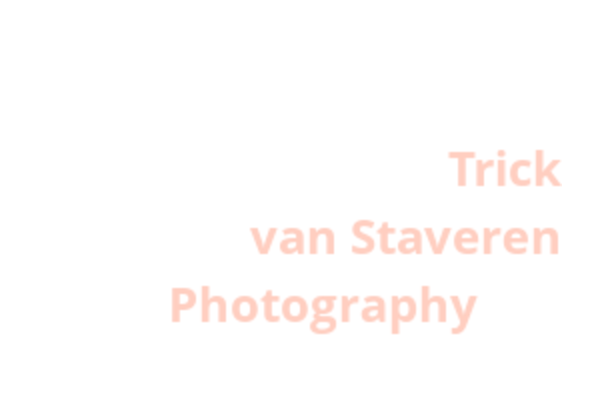
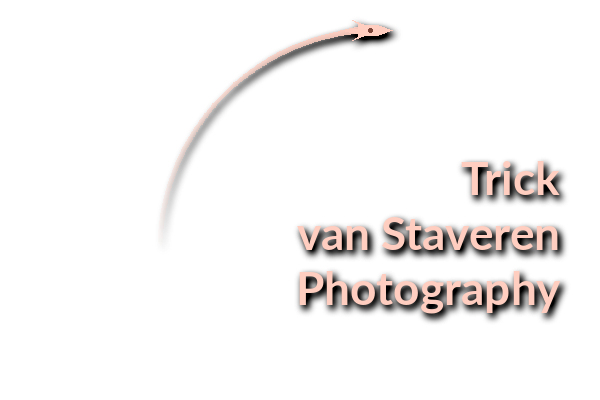
Add brand SVG source and build script, extend gitignore for HEIC
Add build_brand.py to generate the brand watermark and brand1.svg as
the vector source; refresh brand1.png output. Extend .gitignore to also
exclude HEIC source photos and watermarked outputs.

Changed region(s): [[0.27, 0.54, 0.96, 0.84], [0.27, 0.03, 0.66, 0.57], [0.75, 0.36, 0.96, 0.51]]

diff --git a/build_brand.py b/build_brand.py
@@ -1,0 +1,183 @@
+#!/usr/bin/env python3
+"""
+Build brand1.png — the Trick van Staveren Photography watermark.
+
+Layout (600 x 400):
+  * Three lines of right-aligned peach text in the bottom-right.
+  * A 90 degree arc centered on the text that wraps the upper-left,
+    with a peach-fading exhaust trail.
+  * A small narrow rocket at the head of the arc, pointing along the
+    tangent (rightward at the top of the orbit) as if blasting off.
+  * Everything sits over a soft dark drop shadow so the mark stays
+    legible on light backgrounds (sky, sand, seafoam, snow).
+
+PIL is used because ImageMagick 6 and cairosvg on this box don't
+implement SVG filters, so the shadow has to be composed by hand.
+"""
+
+from __future__ import annotations
+
+import math
+
+from PIL import Image, ImageDraw, ImageFilter, ImageFont
+
+# ---------------------------------------------------------------------------
+# Canvas + palette
+
+W, H = 600, 400
+PEACH = (255, 206, 192, 255)   # matches the original brand1.png text color
+SHADOW_RGB = (0, 0, 0)
+
+OUT_PATH = "/sessions/tender-eager-clarke/mnt/photography/brand1.png"
+FONT_PATH = "/usr/share/fonts/truetype/lato/Lato-Bold.ttf"
+FONT_SIZE = 46
+
+# Arc geometry — 90 degree quarter circle centered on the text block.
+ARC_CX, ARC_CY = 380, 250
+ARC_R = 220
+ARC_THETA_START = math.radians(180)   # left of center
+ARC_THETA_END = math.radians(270)     # above center (12 o'clock)
+ARC_WIDTH = 5                          # px
+
+# Rocket sits at the leading end (angle 270, i.e. top of the orbit) and
+# points along the tangent of CCW motion at that point, which is +X.
+ROCKET_X = ARC_CX + ARC_R * math.cos(ARC_THETA_END)
+ROCKET_Y = ARC_CY + ARC_R * math.sin(ARC_THETA_END)
+ROCKET_ANGLE = ARC_THETA_END + math.pi / 2  # tangent direction for CCW orbit
+
+
+# ---------------------------------------------------------------------------
+# Drawing helpers
+
+def draw_trail(layer: Image.Image) -> None:
+    """Draw the 90-degree arc as a peach exhaust trail that fades from
+    transparent at the launch end to fully opaque at the rocket end."""
+    draw = ImageDraw.Draw(layer)
+    steps = 240
+    for i in range(steps):
+        t0 = i / steps
+        t1 = (i + 1) / steps
+        theta0 = ARC_THETA_START + (ARC_THETA_END - ARC_THETA_START) * t0
+        theta1 = ARC_THETA_START + (ARC_THETA_END - ARC_THETA_START) * t1
+        x0 = ARC_CX + ARC_R * math.cos(theta0)
+        y0 = ARC_CY + ARC_R * math.sin(theta0)
+        x1 = ARC_CX + ARC_R * math.cos(theta1)
+        y1 = ARC_CY + ARC_R * math.sin(theta1)
+        # Opacity ramp: 0 at launch end, ~1 at rocket end. Bias with a
+        # gentle curve so the head is solid and the tail tapers nicely.
+        alpha = int(255 * (t0 ** 0.85))
+        color = (PEACH[0], PEACH[1], PEACH[2], alpha)
+        draw.line([(x0, y0), (x1, y1)], fill=color, width=ARC_WIDTH)
+
+
+def draw_rocket(layer: Image.Image) -> None:
+    """Draw a small narrow rocket pointing along +X, then rotate the
+    sprite to the arc's tangent direction and paste it at the rocket
+    position."""
+    # Render in a generous local sprite then rotate.
+    sprite_size = 120
+    sprite = Image.new("RGBA", (sprite_size, sprite_size), (0, 0, 0, 0))
+    sd = ImageDraw.Draw(sprite)
+    cx, cy = sprite_size // 2, sprite_size // 2
+
+    def P(dx, dy):
+        return (cx + dx, cy + dy)
+
+    # Exhaust flame (slightly translucent peach).
+    flame = (PEACH[0], PEACH[1], PEACH[2], 230)
+    sd.polygon([P(-22, -4), P(-40, 0), P(-22, 4)], fill=flame)
+    # Body
+    sd.rectangle([P(-22, -5), P(-2, 5)], fill=PEACH)
+    # Nose cone
+    sd.polygon([P(-2, -5), P(12, 0), P(-2, 5)], fill=PEACH)
+    # Fins
+    sd.polygon([P(-20, -5), P(-28, -10), P(-14, -5)], fill=PEACH)
+    sd.polygon([P(-20, 5), P(-28, 10), P(-14, 5)], fill=PEACH)
+    # Porthole detail
+    sd.ellipse([P(-12, -2), P(-8, 2)], fill=(122, 68, 56, 255))
+
+    # PIL rotates counter-clockwise for positive angles. Our coord
+    # system has Y down, so a +Y direction means rotating the sprite
+    # so its +X axis ends up matching the tangent. The sprite's +X
+    # currently points right; we want it to point in direction
+    # (cos a, sin a) where a is ROCKET_ANGLE in image coords.
+    deg = -math.degrees(ROCKET_ANGLE)  # PIL rotate is CCW
+    rotated = sprite.rotate(deg, resample=Image.BICUBIC)
+
+    # Paste centered on the rocket position.
+    px = int(round(ROCKET_X - sprite_size / 2))
+    py = int(round(ROCKET_Y - sprite_size / 2))
+    layer.alpha_composite(rotated, (px, py))
+
+
+def draw_text(layer: Image.Image) -> None:
+    """Right-aligned three-line brand text."""
+    draw = ImageDraw.Draw(layer)
+    font = ImageFont.truetype(FONT_PATH, FONT_SIZE)
+    right_x = 560
+    lines = [("Trick", 195), ("van Staveren", 250), ("Photography", 305)]
+    for text, y in lines:
+        # Anchor "rs" = right-baseline-ish; PIL Pillow >= 8 supports it.
+        try:
+            draw.text((right_x, y), text, font=font, fill=PEACH, anchor="rs")
+        except (TypeError, ValueError):
+            # Fallback: measure and place manually.
+            bbox = draw.textbbox((0, 0), text, font=font)
+            w = bbox[2] - bbox[0]
+            draw.text((right_x - w, y - (bbox[3] - bbox[1])),
+                      text, font=font, fill=PEACH)
+
+
+# ---------------------------------------------------------------------------
+# Drop shadow
+
+def build_shadow(foreground: Image.Image,
+                 offset: tuple[int, int] = (3, 4),
+                 blur_radius: float = 3.5,
+                 strength: float = 1.6) -> Image.Image:
+    """Return a same-size RGBA image holding only the drop shadow.
+
+    `strength` > 1 pushes the blurred alpha up so the shadow stays
+    opaque under the lighter parts of the foreground — important for
+    legibility on bright backgrounds.
+    """
+    # Alpha-only mask of the foreground, scaled by the foreground's
+    # own alpha so semi-transparent bits cast lighter shadows.
+    alpha = foreground.split()[-1]
+    # Blur the alpha.
+    blurred = alpha.filter(ImageFilter.GaussianBlur(radius=blur_radius))
+    # Strengthen.
+    blurred = blurred.point(lambda v: min(255, int(v * strength)))
+
+    # Build a solid-color RGBA image using the blurred alpha.
+    shadow = Image.new("RGBA", foreground.size, SHADOW_RGB + (0,))
+    shadow.putalpha(blurred)
+
+    # Offset.
+    offset_img = Image.new("RGBA", foreground.size, (0, 0, 0, 0))
+    offset_img.alpha_composite(shadow, offset)
+    return offset_img
+
+
+# ---------------------------------------------------------------------------
+# Build
+
+def main() -> None:
+    # Foreground layer: arc + rocket + text, all peach.
+    fg = Image.new("RGBA", (W, H), (0, 0, 0, 0))
+    draw_trail(fg)
+    draw_rocket(fg)
+    draw_text(fg)
+
+    # Shadow underneath the foreground.
+    shadow = build_shadow(fg)
+
+    composite = Image.new("RGBA", (W, H), (0, 0, 0, 0))
+    composite.alpha_composite(shadow)
+    composite.alpha_composite(fg)
+    composite.save(OUT_PATH, "PNG")
+    print(f"wrote {OUT_PATH}")
+
+
+if __name__ == "__main__":
+    main()
